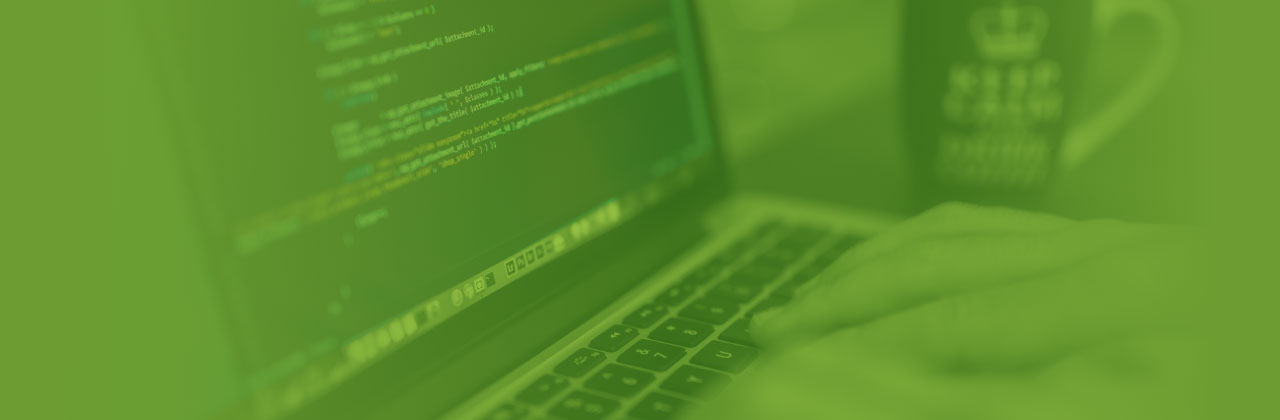
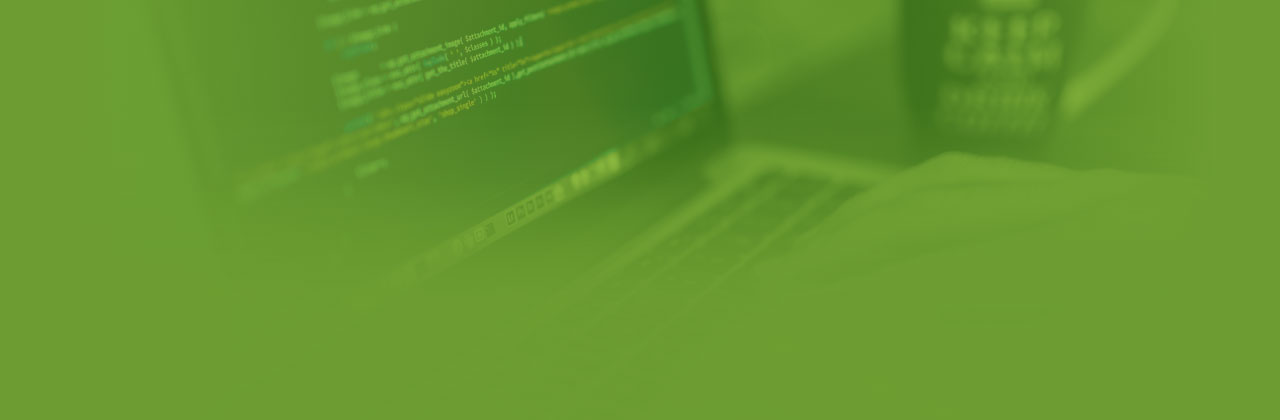
Updating design files
Added a new header image, a new feature image, and added a third weight
of Raleway to the Google font stack.

diff --git a/50357/assets/css/style.css b/50357/assets/css/style.css
@@ -5888,6 +5888,16 @@ button.close {
   background-color: #168DD4;
   border-color: #0C75C7;
 }
+.btn.btn-layout {
+  color: #ffffff;
+  background-color: #1C75BC;
+  border-color: #0F55A3;
+}
+.btn.btn-layout:hover {
+  color: #ffffff;
+  background-color: #0F55A3;
+  border-color: #083E8D;
+}
 body {
   font-family: "Raleway", sans-serif;
   font-size: 16px;
@@ -5911,7 +5921,7 @@ h6,
 }
 #myCarousel {
   background: url(../images/173Background.jpg) center -180px no-repeat;
-  background-color: #817460;
+  background-color: #6C9C32;
   height: 240px;
   margin-bottom: 60px;
   /* background-size: cover !important; */
@@ -5919,6 +5929,9 @@ h6,
 .carousel-caption {
   text-shadow: none !important;
   z-index: 10;
+}
+.carousel-caption p {
+  font-weight: 500 !important;
 }
 .carousel-caption h1,
 .carousel-caption p {
@@ -5931,7 +5944,7 @@ h6,
 }
 .carousel-caption h1 a:hover,
 .carousel-caption p a:hover {
-  background-color: #8bc53f;
+  background-color: #8BC53F;
   color: white;
   padding: 5px;
   margin: -5px;
@@ -5971,13 +5984,13 @@ h6,
 footer p a,
 .content p a {
   font-weight: bold !important;
-  color: #8bc53f;
+  color: #8BC53F;
 }
 .featurette p a:hover,
 footer p a:hover,
 .content p a:hover {
   color: white;
-  background-color: #8bc53f;
+  background-color: #8BC53F;
   padding: 5px;
   margin: -5px;
   text-decoration: none;
@@ -6021,11 +6034,11 @@ footer {
 .syllabus table {
   margin: 10px 0 15px 0;
   border-collapse: collapse;
-  border: 1px solid #ddd;
+  border: 1px solid #DDDDDD;
 }
 .syllabus td,
 .syllabus th {
-  border: 1px solid #ddd;
+  border: 1px solid #DDDDDD;
   padding: 3px 10px;
 }
 .syllabus th {
@@ -6056,14 +6069,14 @@ footer {
 hr {
[1 lines of base64/hex data omitted]
   border: 0 none;
-  color: #cccccc;
+  color: #CCCCCC;
   height: 4px;
   padding: 0;
 }
 hr.line {
   background: none !important;
-  border-bottom: 1px solid #CCC;
-  color: #cccccc;
+  border-bottom: 1px solid #CCCCCC;
+  color: #CCCCCC;
   height: 4px;
   padding: 0;
 }

diff --git a/50357/assets/css/style.less b/50357/assets/css/style.less
@@ -3,7 +3,7 @@
 @import "buttons.less";
 
 // Brand Colors
-@173main: #8bc53f;
+@173main: #8BC53F;
 
 body {
 	font-family: "Raleway", sans-serif;
@@ -19,7 +19,7 @@ h1,h2,h3,h4,h5,h6, .h1,.h2,.h3,.h4,.h5,.h6 {
 
 #myCarousel {
 	background: url(../images/173Background.jpg) center -180px no-repeat;
-	background-color: #817460;
+	background-color: #6C9C32;
 	height: 240px;
 	margin-bottom: 60px;
 	/* background-size: cover !important; */
@@ -28,6 +28,9 @@ h1,h2,h3,h4,h5,h6, .h1,.h2,.h3,.h4,.h5,.h6 {
 .carousel-caption {
 	text-shadow: none !important;
 	z-index: 10;
+	
+	p {font-weight: 500 !important;}
+	
 	
 	h1, p{
 		margin-bottom: 0px;				
@@ -138,11 +141,11 @@ footer {
 	table {
 	margin: 10px 0 15px 0;
 	border-collapse: collapse;
-	border: 1px solid #ddd;
+	border: 1px solid #DDDDDD;
 	//font-family: "Raleway", "Helvetica Neue", Helvetica, "Hiragino Sans GB", Arial, sans-serif !important; 
 	}
 	td,th {	
-		border: 1px solid #ddd;
+		border: 1px solid #DDDDDD;
 		padding: 3px 10px;
 	}
 	th {
@@ -168,15 +171,15 @@ footer {
 hr {
[1 lines of base64/hex data omitted]
   border: 0 none;
-  color: #cccccc;
+  color: #CCCCCC;
   height: 4px;
   padding: 0;
 }
 
 hr.line {
   background: none !important;
-  border-bottom: 1px solid #CCC;
-  color: #cccccc;
+  border-bottom: 1px solid #CCCCCC;
+  color: #CCCCCC;
   height: 4px;
   padding: 0;
 }

diff --git a/50357/assets/css/buttons.less b/50357/assets/css/buttons.less
@@ -8,6 +8,7 @@
   background-color: #F37511;
   border-color: #EF5C09;
 }
+
 .btn.btn-css {
   color: #ffffff;
   background-color: #27AAE1;
@@ -17,4 +18,15 @@
   color: #ffffff;
   background-color: #168DD4;
   border-color: #0C75C7;
+}
+
+.btn.btn-layout {
+  color: #ffffff;
+  background-color: #1C75BC;
+  border-color: #0F55A3;
+}
+.btn.btn-layout:hover {
+  color: #ffffff;
+  background-color: #0F55A3;
+  border-color: #083E8D;
 }

diff --git a/50357/content/docs/syllabus.html b/50357/content/docs/syllabus.html
@@ -21,7 +21,7 @@
 
     <title>ARTS 173 | Syllabus </title>
 
-    <link href="//fonts.googleapis.com/css?family=Raleway:300,800" rel="stylesheet" type="text/css">    
+    <link href="//fonts.googleapis.com/css?family=Raleway:300,500,800" rel="stylesheet" type="text/css">    
     <link href="https://senordavis.github.io/173/50357/assets/css/style.css" rel="stylesheet">
 
   </head>

diff --git a/50357/content/docs/welcome.html b/50357/content/docs/welcome.html
@@ -21,7 +21,7 @@
 
     <title>ARTS 173 | Welcome </title>
 
-    <link href="//fonts.googleapis.com/css?family=Raleway:300,800" rel="stylesheet" type="text/css">    
+    <link href="//fonts.googleapis.com/css?family=Raleway:300,500,800" rel="stylesheet" type="text/css">    
     <link href="https://senordavis.github.io/173/50357/assets/css/style.css" rel="stylesheet">
 
   </head>

diff --git a/50357/test.html b/50357/test.html
@@ -21,7 +21,7 @@
 
     <title>ARTS 173 | Home </title>
 
-    <link href="//fonts.googleapis.com/css?family=Raleway:300,800" rel="stylesheet" type="text/css">    
+    <link href="//fonts.googleapis.com/css?family=Raleway:300,500,800" rel="stylesheet" type="text/css">    
     <link href="https://senordavis.github.io/173/50357/assets/css/style.css" rel="stylesheet">
 
   </head>
